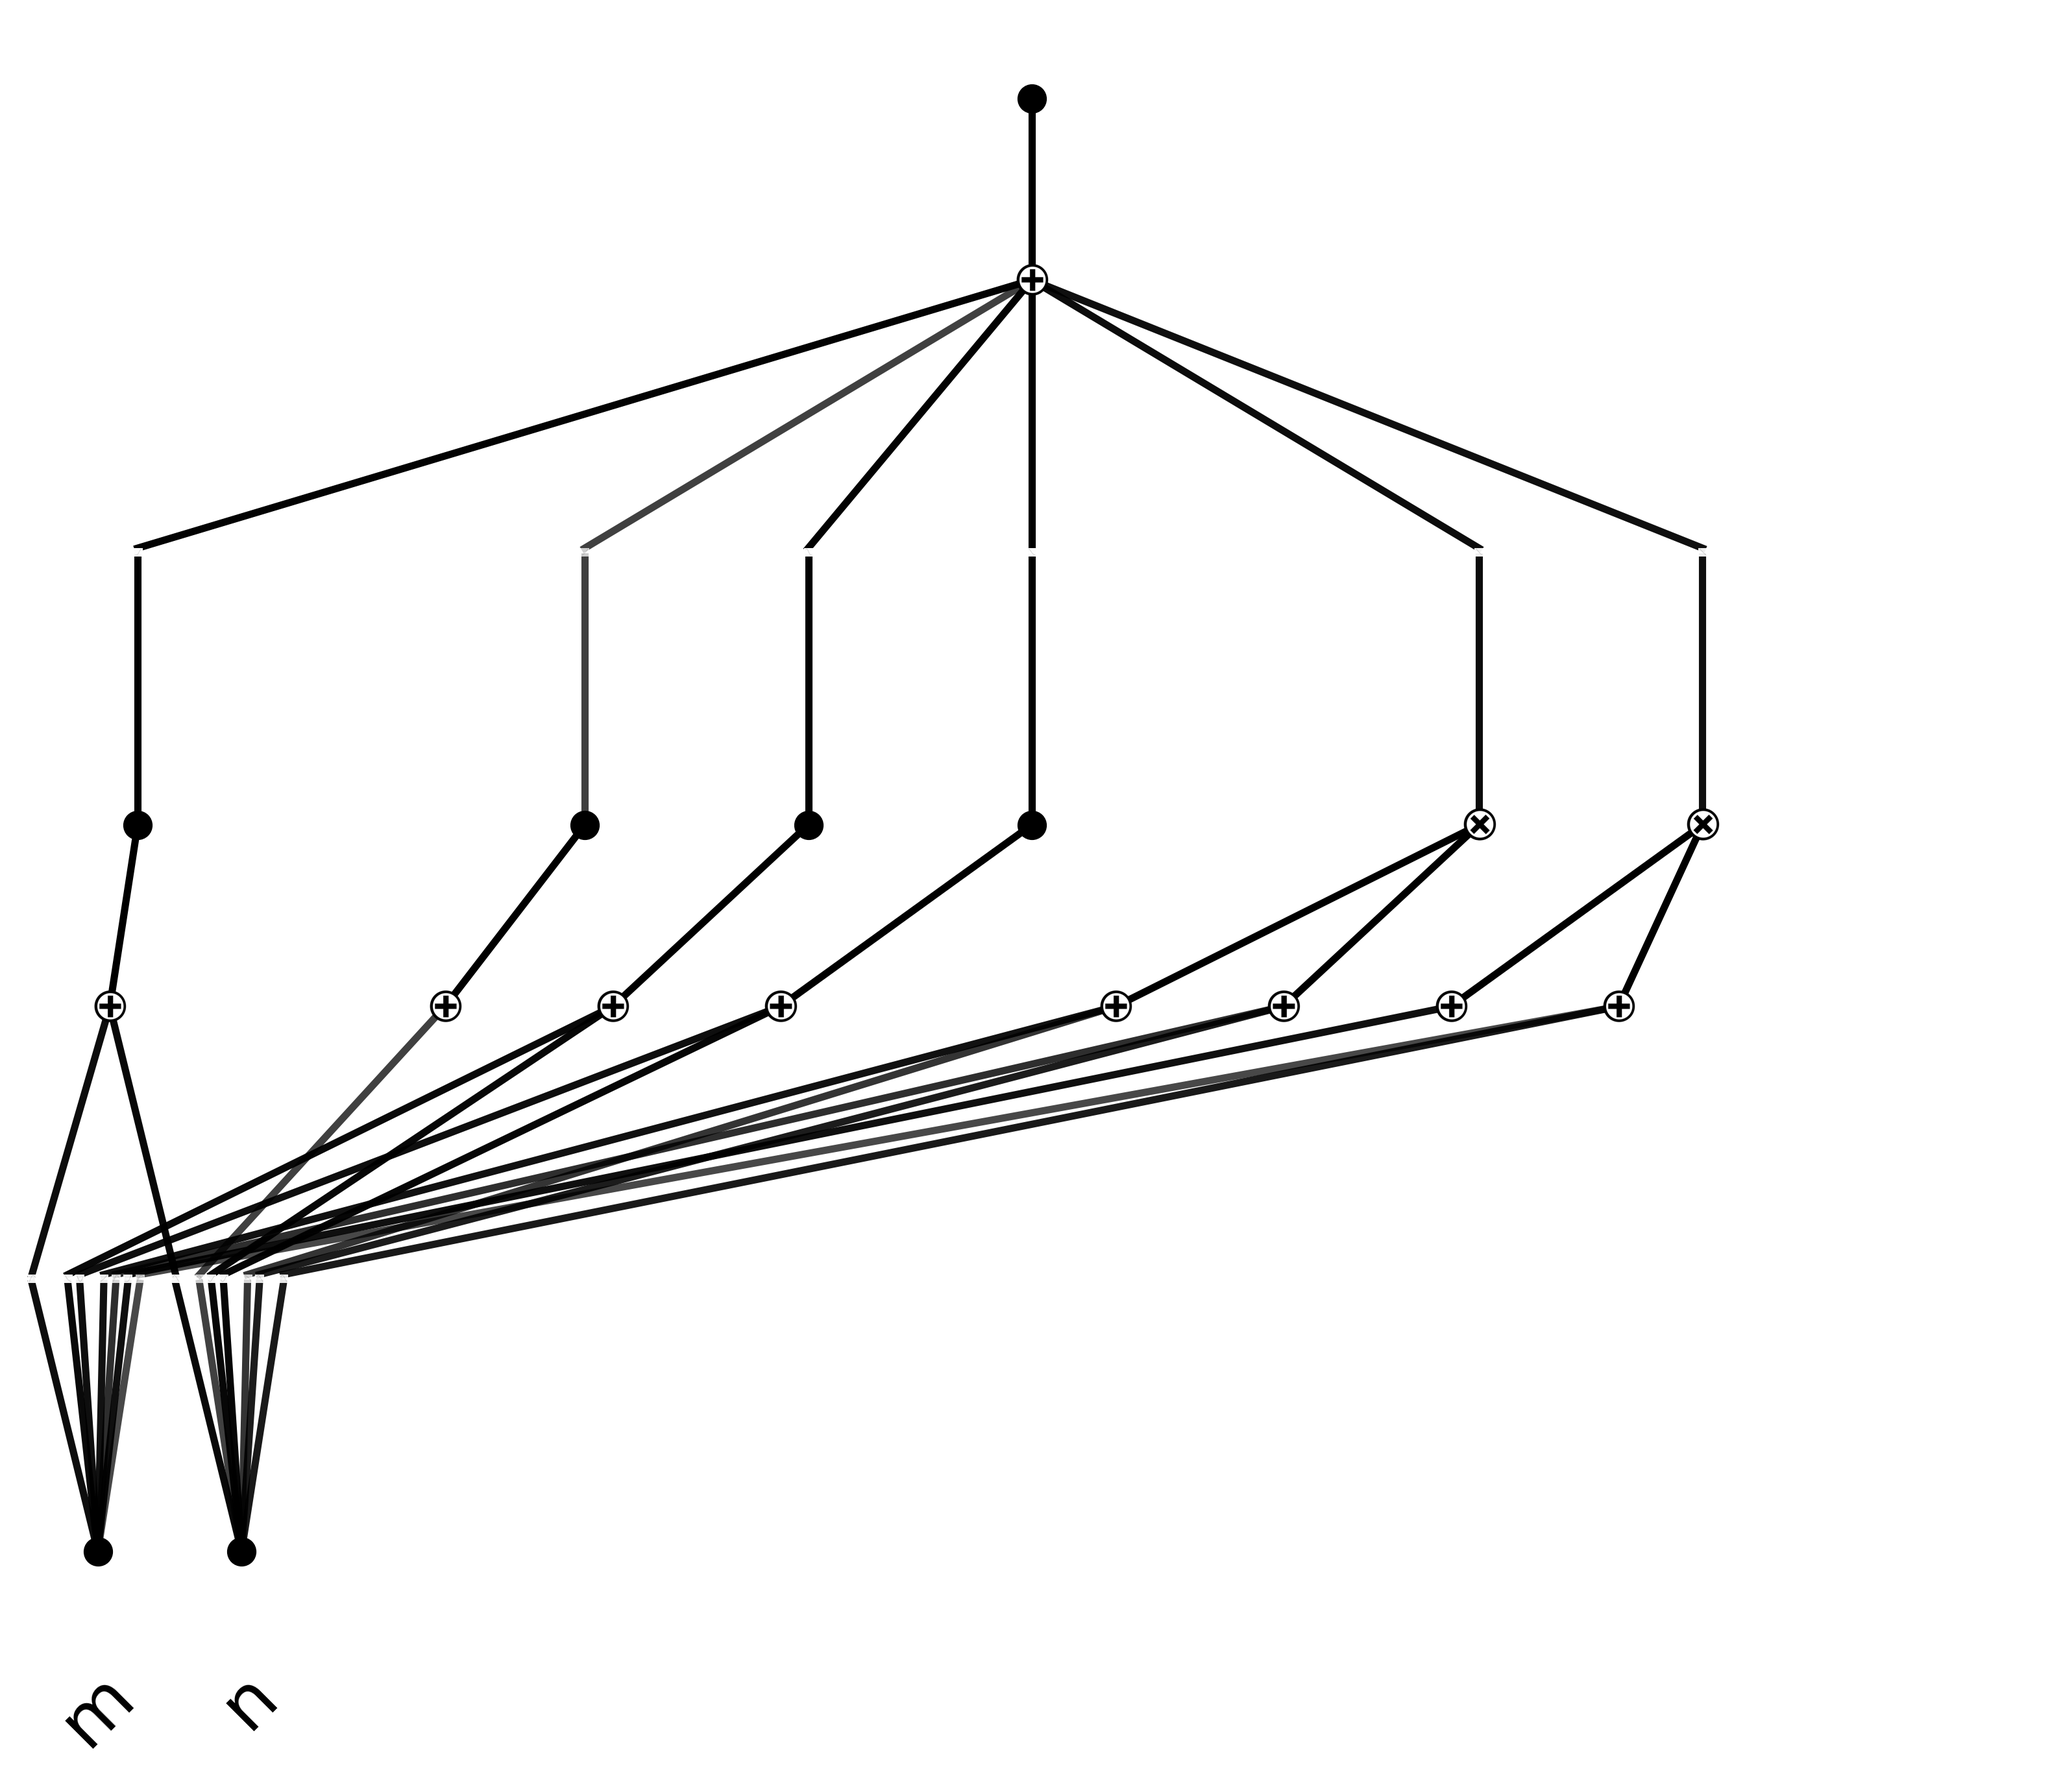
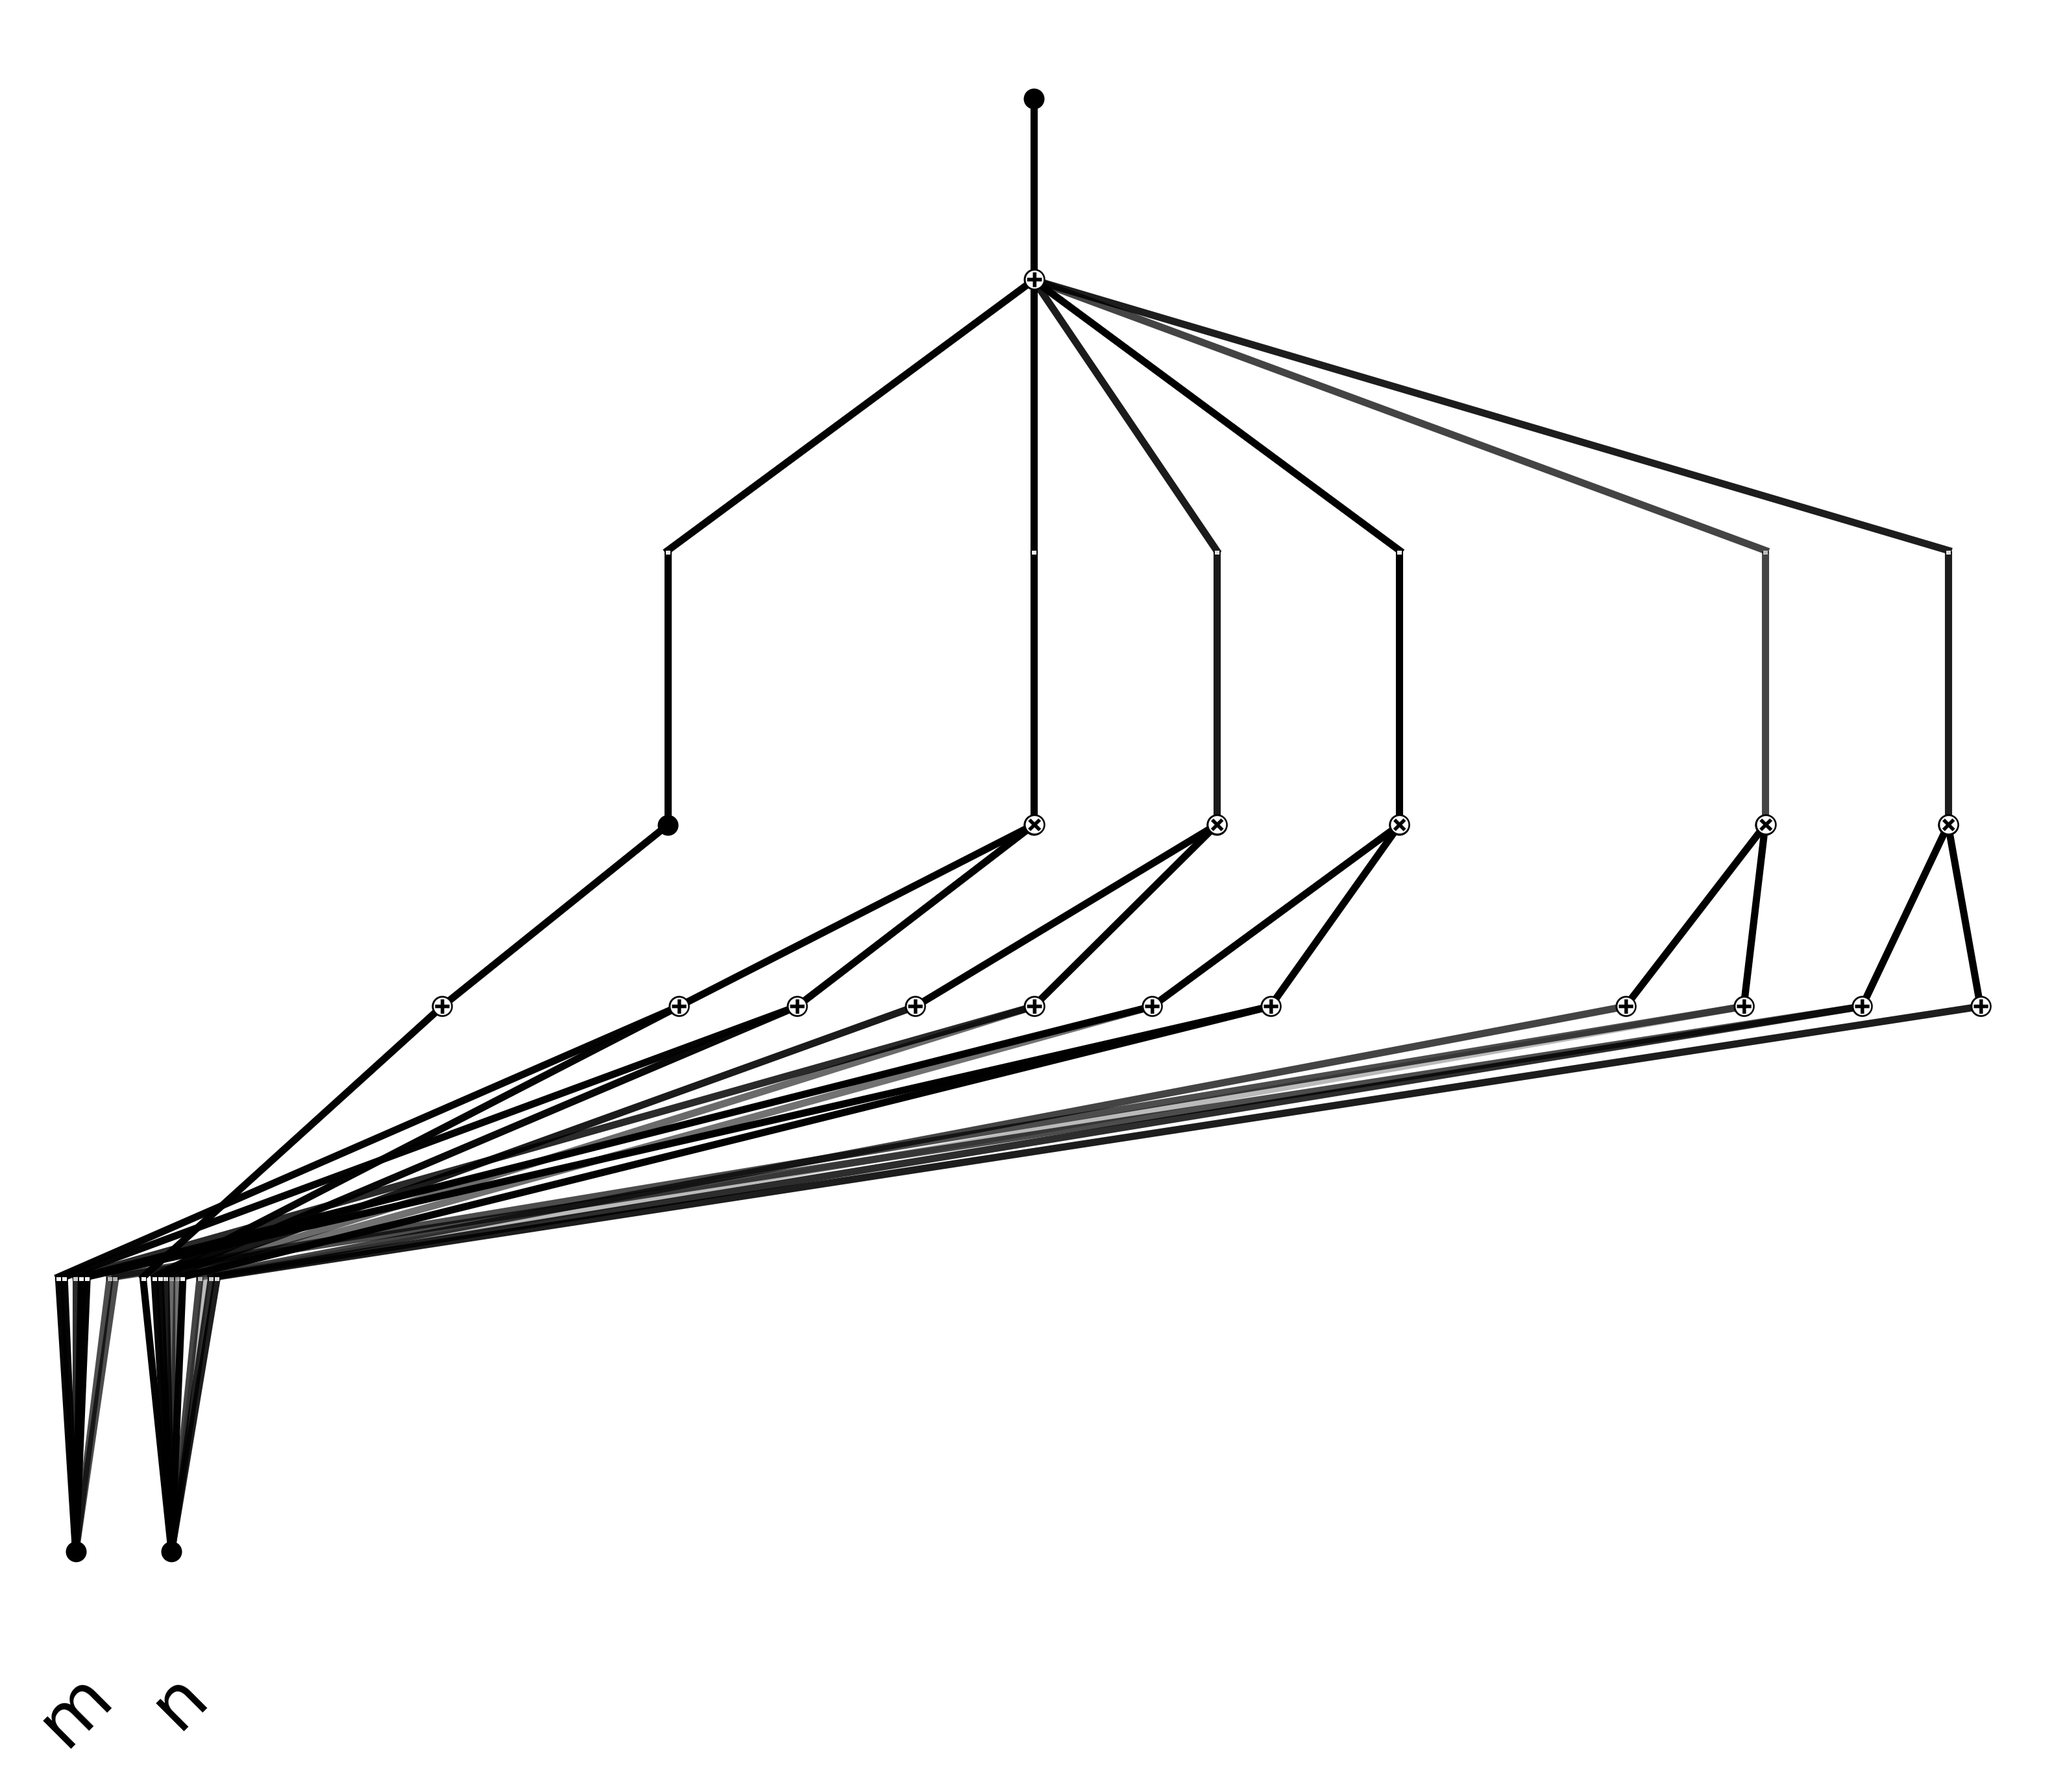
Correction in img to qkan page

diff --git a/_includes/scripts.html b/_includes/scripts.html
@@ -33,6 +33,15 @@
 </script>
 
 <script src="https://polyfill.io/v3/polyfill.min.js?features=es6"></script>
+<script>
+    window.MathJax = {
+        tex: {
+            inlineMath: [['$', '$'], ['\\(', '\\)']],
+            displayMath: [['$$', '$$'], ['\\[', '\\]']],
+            processEscapes: true
+        }
+    };
+</script>
 <script id="MathJax-script" async src="https://cdn.jsdelivr.net/npm/mathjax@3/es5/tex-mml-chtml.js"></script>
 
 <script>
